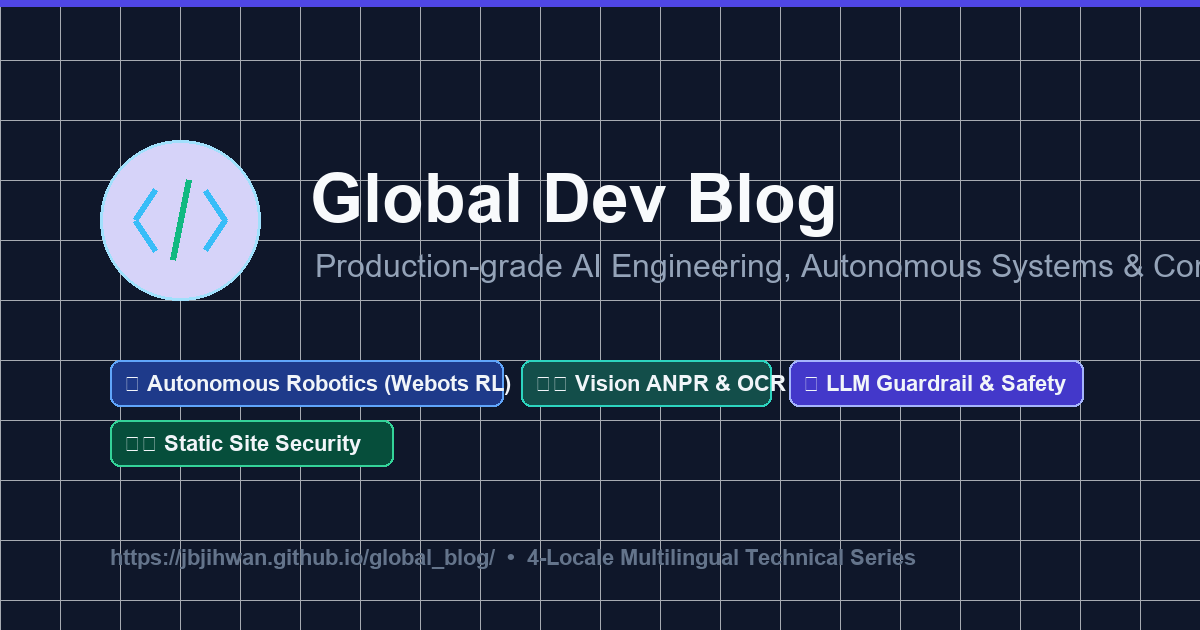
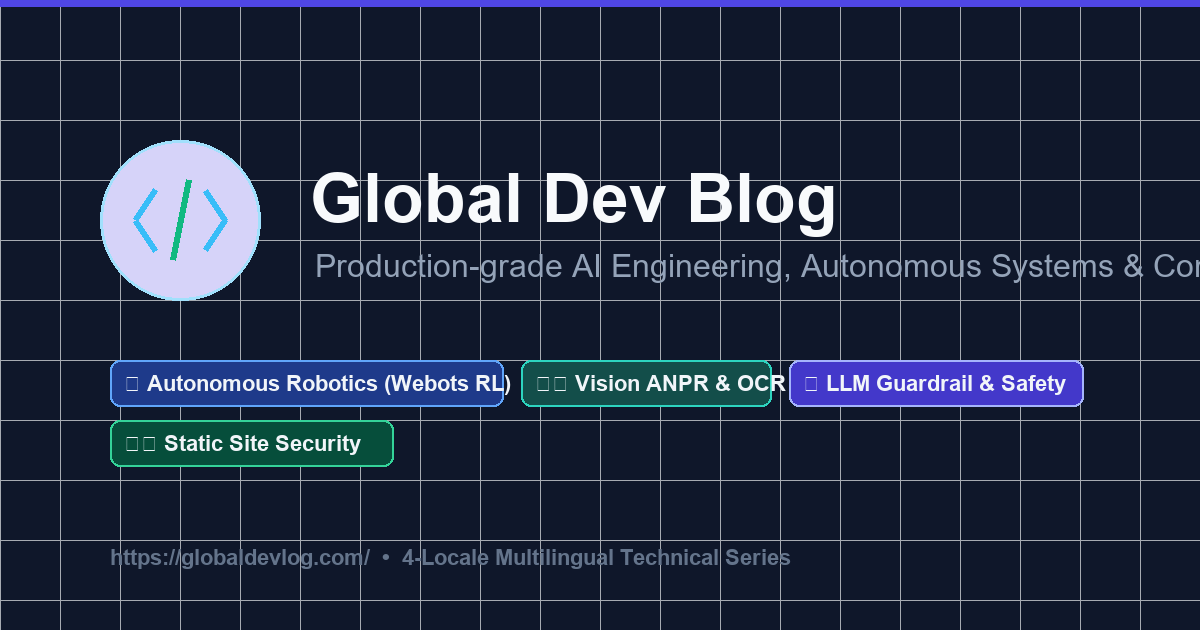
feat: Update blog content and series

Changed region(s): [[0.1542, 0.8746, 0.7708, 0.9048]]

diff --git a/docusaurus.config.ts b/docusaurus.config.ts
@@ -14,8 +14,8 @@ const config: Config = {
     v4: true, // Improve compatibility with the upcoming Docusaurus v4
   },
 
-  url: 'https://jbjihwan.github.io',
-  baseUrl: '/global_blog/',
+  url: 'https://globaldevlog.com',
+  baseUrl: '/',
 
   // GitHub pages deployment config.
   organizationName: 'jbjihwan', // Usually your GitHub org/user name.

diff --git a/tools/check_domains.py b/tools/check_domains.py
@@ -1,0 +1,70 @@
+#!/usr/bin/env python3
+# -*- coding: utf-8 -*-
+"""
+Check domain availability and registration status via DNS and RDAP.
+"""
+
+import socket
+import urllib.request
+import json
+import time
+
+DOMAINS = [
+    "engjourney.com",
+    "globaldevlog.com",
+    "globaldev.blog",
+    "autonodev.com",
+    "deepdevlog.com",
+    "jihwandev.com",
+    "jihwanlog.com",
+    "parkdev.tech",
+    "parklog.dev",
+    "mindvision.dev",
+    "coredevops.com"
+]
+
+def check_dns(domain):
+    try:
+        ip = socket.gethostbyname(domain)
+        return True, ip
+    except socket.gaierror:
+        return False, None
+
+def check_rdap(domain):
+    url = f"https://rdap.org/domain/{domain}"
+    req = urllib.request.Request(
+        url,
+        headers={"User-Agent": "Mozilla/5.0 (Windows NT 10.0; Win64; x64)"}
+    )
+    try:
+        with urllib.request.urlopen(req, timeout=5) as response:
+            if response.status == 200:
+                data = json.loads(response.read().decode("utf-8"))
+                # If RDAP returns 200, domain is registered
+                handle = data.get("handle", "")
+                events = data.get("events", [])
+                reg_date = ""
+                for ev in events:
+                    if ev.get("eventAction") == "registration":
+                        reg_date = ev.get("eventDate", "")[:10]
+                return "REGISTERED (Taken)", reg_date
+    except urllib.error.HTTPError as e:
+        if e.code == 404:
+            return "AVAILABLE (등록 가능)", ""
+        else:
+            return f"HTTP {e.code}", ""
+    except Exception as e:
+        return f"ERROR ({e})", ""
+
+def main():
+    print(f"{'Domain':<20} | {'Status':<22} | {'DNS IP':<16} | {'Registered Date'}")
+    print("-" * 75)
+    for d in DOMAINS:
+        has_dns, ip = check_dns(d)
+        rdap_status, reg_date = check_rdap(d)
+        ip_str = ip if ip else "-"
+        print(f"{d:<20} | {rdap_status:<22} | {ip_str:<16} | {reg_date}")
+        time.sleep(0.5)
+
+if __name__ == "__main__":
+    main()

diff --git a/tools/generate_assets.py b/tools/generate_assets.py
@@ -85,7 +85,7 @@ def create_social_card():
             y_badge += 60
 
     # Footer note
-    draw.text((110, 545), "https://jbjihwan.github.io/global_blog/  •  4-Locale Multilingual Technical Series", fill=(100, 116, 139, 255), font=font_tag)
+    draw.text((110, 545), "https://globaldevlog.com/  •  4-Locale Multilingual Technical Series", fill=(100, 116, 139, 255), font=font_tag)
 
     card_path = os.path.join(STATIC_IMG, "social-card.png")
     img.save(card_path, format="PNG")

diff --git a/i18n/ko/docusaurus-plugin-content-pages/privacy-policy.md b/i18n/ko/docusaurus-plugin-content-pages/privacy-policy.md
@@ -9,7 +9,7 @@ keywords: [개인정보처리방침, Privacy Policy, 구글 애드센스, 구글
 **시행일자:** 2026년 10월 18일  
 **최종 수정일:** 2026년 10월 18일
 
-**글로벌 기술 블로그(Global Dev Blog)**(웹사이트: [https://jbjihwan.github.io/global_blog/](https://jbjihwan.github.io/global_blog/))는 방문자의 개인정보 보호를 매우 중요하게 생각합니다. 본 방침은 블로그가 수집하는 정보와 그 사용 목적, 제3자 서비스(Google Analytics, Google AdSense)와의 연동 사항을 투명하게 안내합니다.
+**글로벌 기술 블로그(Global Dev Blog)**(웹사이트: [https://globaldevlog.com/](https://globaldevlog.com/))는 방문자의 개인정보 보호를 매우 중요하게 생각합니다. 본 방침은 블로그가 수집하는 정보와 그 사용 목적, 제3자 서비스(Google Analytics, Google AdSense)와의 연동 사항을 투명하게 안내합니다.
 
 문의 사항이 있으신 경우 [jbgihwan@gmail.com](mailto:jbgihwan@gmail.com)으로 연락 주시기 바랍니다.
 

diff --git a/i18n/ja/docusaurus-plugin-content-pages/privacy-policy.md b/i18n/ja/docusaurus-plugin-content-pages/privacy-policy.md
@@ -9,7 +9,7 @@ keywords: [プライバシーポリシー, Privacy Policy, Google AdSense, Googl
 **発効日:** 2026年10月18日  
 **最終更新日:** 2026年10月18日
 
-**グローバル技術ブログ (Global Dev Blog)** (URL: [https://jbjihwan.github.io/global_blog/](https://jbjihwan.github.io/global_blog/)) は、訪問者のプライバシー保護を重視しています。本ドキュメントでは、当サイトが収集する情報およびGoogle Analytics 4、Google AdSenseの取り扱いについて説明します。
+**グローバル技術ブログ (Global Dev Blog)** (URL: [https://globaldevlog.com/](https://globaldevlog.com/)) は、訪問者のプライバシー保護を重視しています。本ドキュメントでは、当サイトが収集する情報およびGoogle Analytics 4、Google AdSenseの取り扱いについて説明します。
 
 ご質問がある場合は、[jbgihwan@gmail.com](mailto:jbgihwan@gmail.com) までお問い合わせください。
 

diff --git a/src/pages/privacy-policy.md b/src/pages/privacy-policy.md
@@ -9,7 +9,7 @@ keywords: [Privacy Policy, Google AdSense, Google Analytics, GDPR, CCPA, Cookies
 **Effective Date:** October 18, 2026  
 **Last Updated:** October 18, 2026
 
-At **Global Dev Blog** (accessible at [https://jbjihwan.github.io/global_blog/](https://jbjihwan.github.io/global_blog/)), the privacy of our visitors is of extreme importance to us. This Privacy Policy document outlines the types of personal information that is received and collected by Global Dev Blog and how it is used.
+At **Global Dev Blog** (accessible at [https://globaldevlog.com/](https://globaldevlog.com/)), the privacy of our visitors is of extreme importance to us. This Privacy Policy document outlines the types of personal information that is received and collected by Global Dev Blog and how it is used.
 
 If you have additional questions or require more information about our Privacy Policy, do not hesitate to contact us at [jbgihwan@gmail.com](mailto:jbgihwan@gmail.com).
 

diff --git a/i18n/es/docusaurus-plugin-content-pages/privacy-policy.md b/i18n/es/docusaurus-plugin-content-pages/privacy-policy.md
@@ -9,7 +9,7 @@ keywords: [Política de Privacidad, Privacy Policy, Google AdSense, Google Analy
 **Fecha de entrada en vigor:** 18 de octubre de 2026  
 **Última actualización:** 18 de octubre de 2026
 
-En **Global Dev Blog** (disponible en [https://jbjihwan.github.io/global_blog/](https://jbjihwan.github.io/global_blog/)), la privacidad de nuestros visitantes es de extrema importancia. Este documento describe los tipos de información que se recopilan y cómo se utilizan.
+En **Global Dev Blog** (disponible en [https://globaldevlog.com/](https://globaldevlog.com/)), la privacidad de nuestros visitantes es de extrema importancia. Este documento describe los tipos de información que se recopilan y cómo se utilizan.
 
 Si tiene preguntas adicionales, contáctenos en [jbgihwan@gmail.com](mailto:jbgihwan@gmail.com).
 

diff --git a/src/pages/about.md b/src/pages/about.md
@@ -65,4 +65,4 @@ All technical series published on this blog are backed by real, executable repos
 
 - **GitHub Profile**: [github.com/jbjihwan](https://github.com/jbjihwan)
 - **Blog Source Repository**: [github.com/jbjihwan/global_blog](https://github.com/jbjihwan/global_blog)
-- **Get in Touch**: Visit the [Contact Page](/global_blog/contact) or reach out via [jbgihwan@gmail.com](mailto:jbgihwan@gmail.com).
+- **Get in Touch**: Visit the [Contact Page](/contact) or reach out via [jbgihwan@gmail.com](mailto:jbgihwan@gmail.com).

diff --git a/i18n/ko/docusaurus-plugin-content-pages/about.md b/i18n/ko/docusaurus-plugin-content-pages/about.md
@@ -60,4 +60,4 @@ keywords: [블로그 소개, 개발자 소개, 박지환, 인공지능 엔지니
 
 - **GitHub 프로필**: [github.com/jbjihwan](https://github.com/jbjihwan)
 - **블로그 소스 저장소**: [github.com/jbjihwan/global_blog](https://github.com/jbjihwan/global_blog)
-- **문의하기**: [문의 페이지](/global_blog/ko/contact) 또는 [jbgihwan@gmail.com](mailto:jbgihwan@gmail.com)
+- **문의하기**: [문의 페이지](/ko/contact) 또는 [jbgihwan@gmail.com](mailto:jbgihwan@gmail.com)
